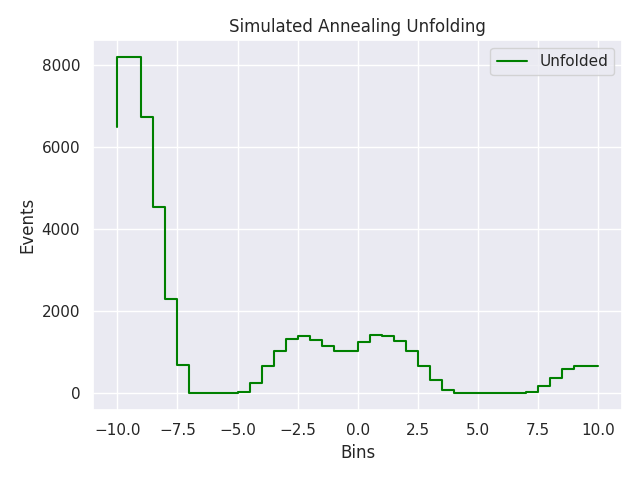
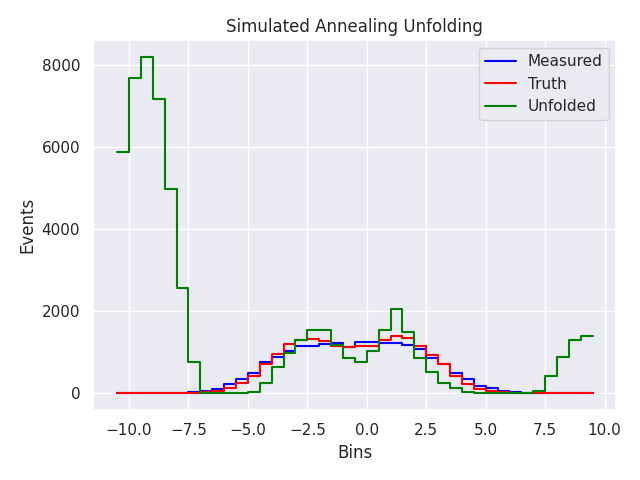
Minor updates.

diff --git a/src/QUnfold/plot/QUnfoldPlotter.py b/src/QUnfold/plot/QUnfoldPlotter.py
@@ -55,8 +55,8 @@ class QUnfoldPlotter:
 
         # Plot settings
         plt.colorbar(label="Response Value")
-        plt.xlabel("Column (measured)")
-        plt.ylabel("Row (truth)")
+        plt.xlabel("Truth")
+        plt.ylabel("Measured")
         plt.title("Response Matrix")
 
     def plotResponse(self):
@@ -92,7 +92,7 @@ class QUnfoldPlotter:
         sns.set()
 
         # Measured histogram
-        """plt.step(
+        plt.step(
             x=np.concatenate(
                 (
                     [self.binning[0] - (self.binning[1] - self.binning[0])],
@@ -115,7 +115,7 @@ class QUnfoldPlotter:
             y=np.concatenate(([self.truth[0]], self.truth)),
             label="Truth",
             color="red",
-        )"""
+        )
 
         # Unfolded histogram
         plt.step(

diff --git a/studies/QUnfolder.py b/studies/QUnfolder.py
@@ -90,6 +90,9 @@ def main():
             plotter.savePlot(
                 "../img/QUnfold/{}/unfolded_{}.png".format(distr, unf_type), title
             )
+            plotter.saveResponse(
+                "../img/QUnfold/{}/response.png".format(distr, unf_type)
+            )
             
         print()
     print("Done")
